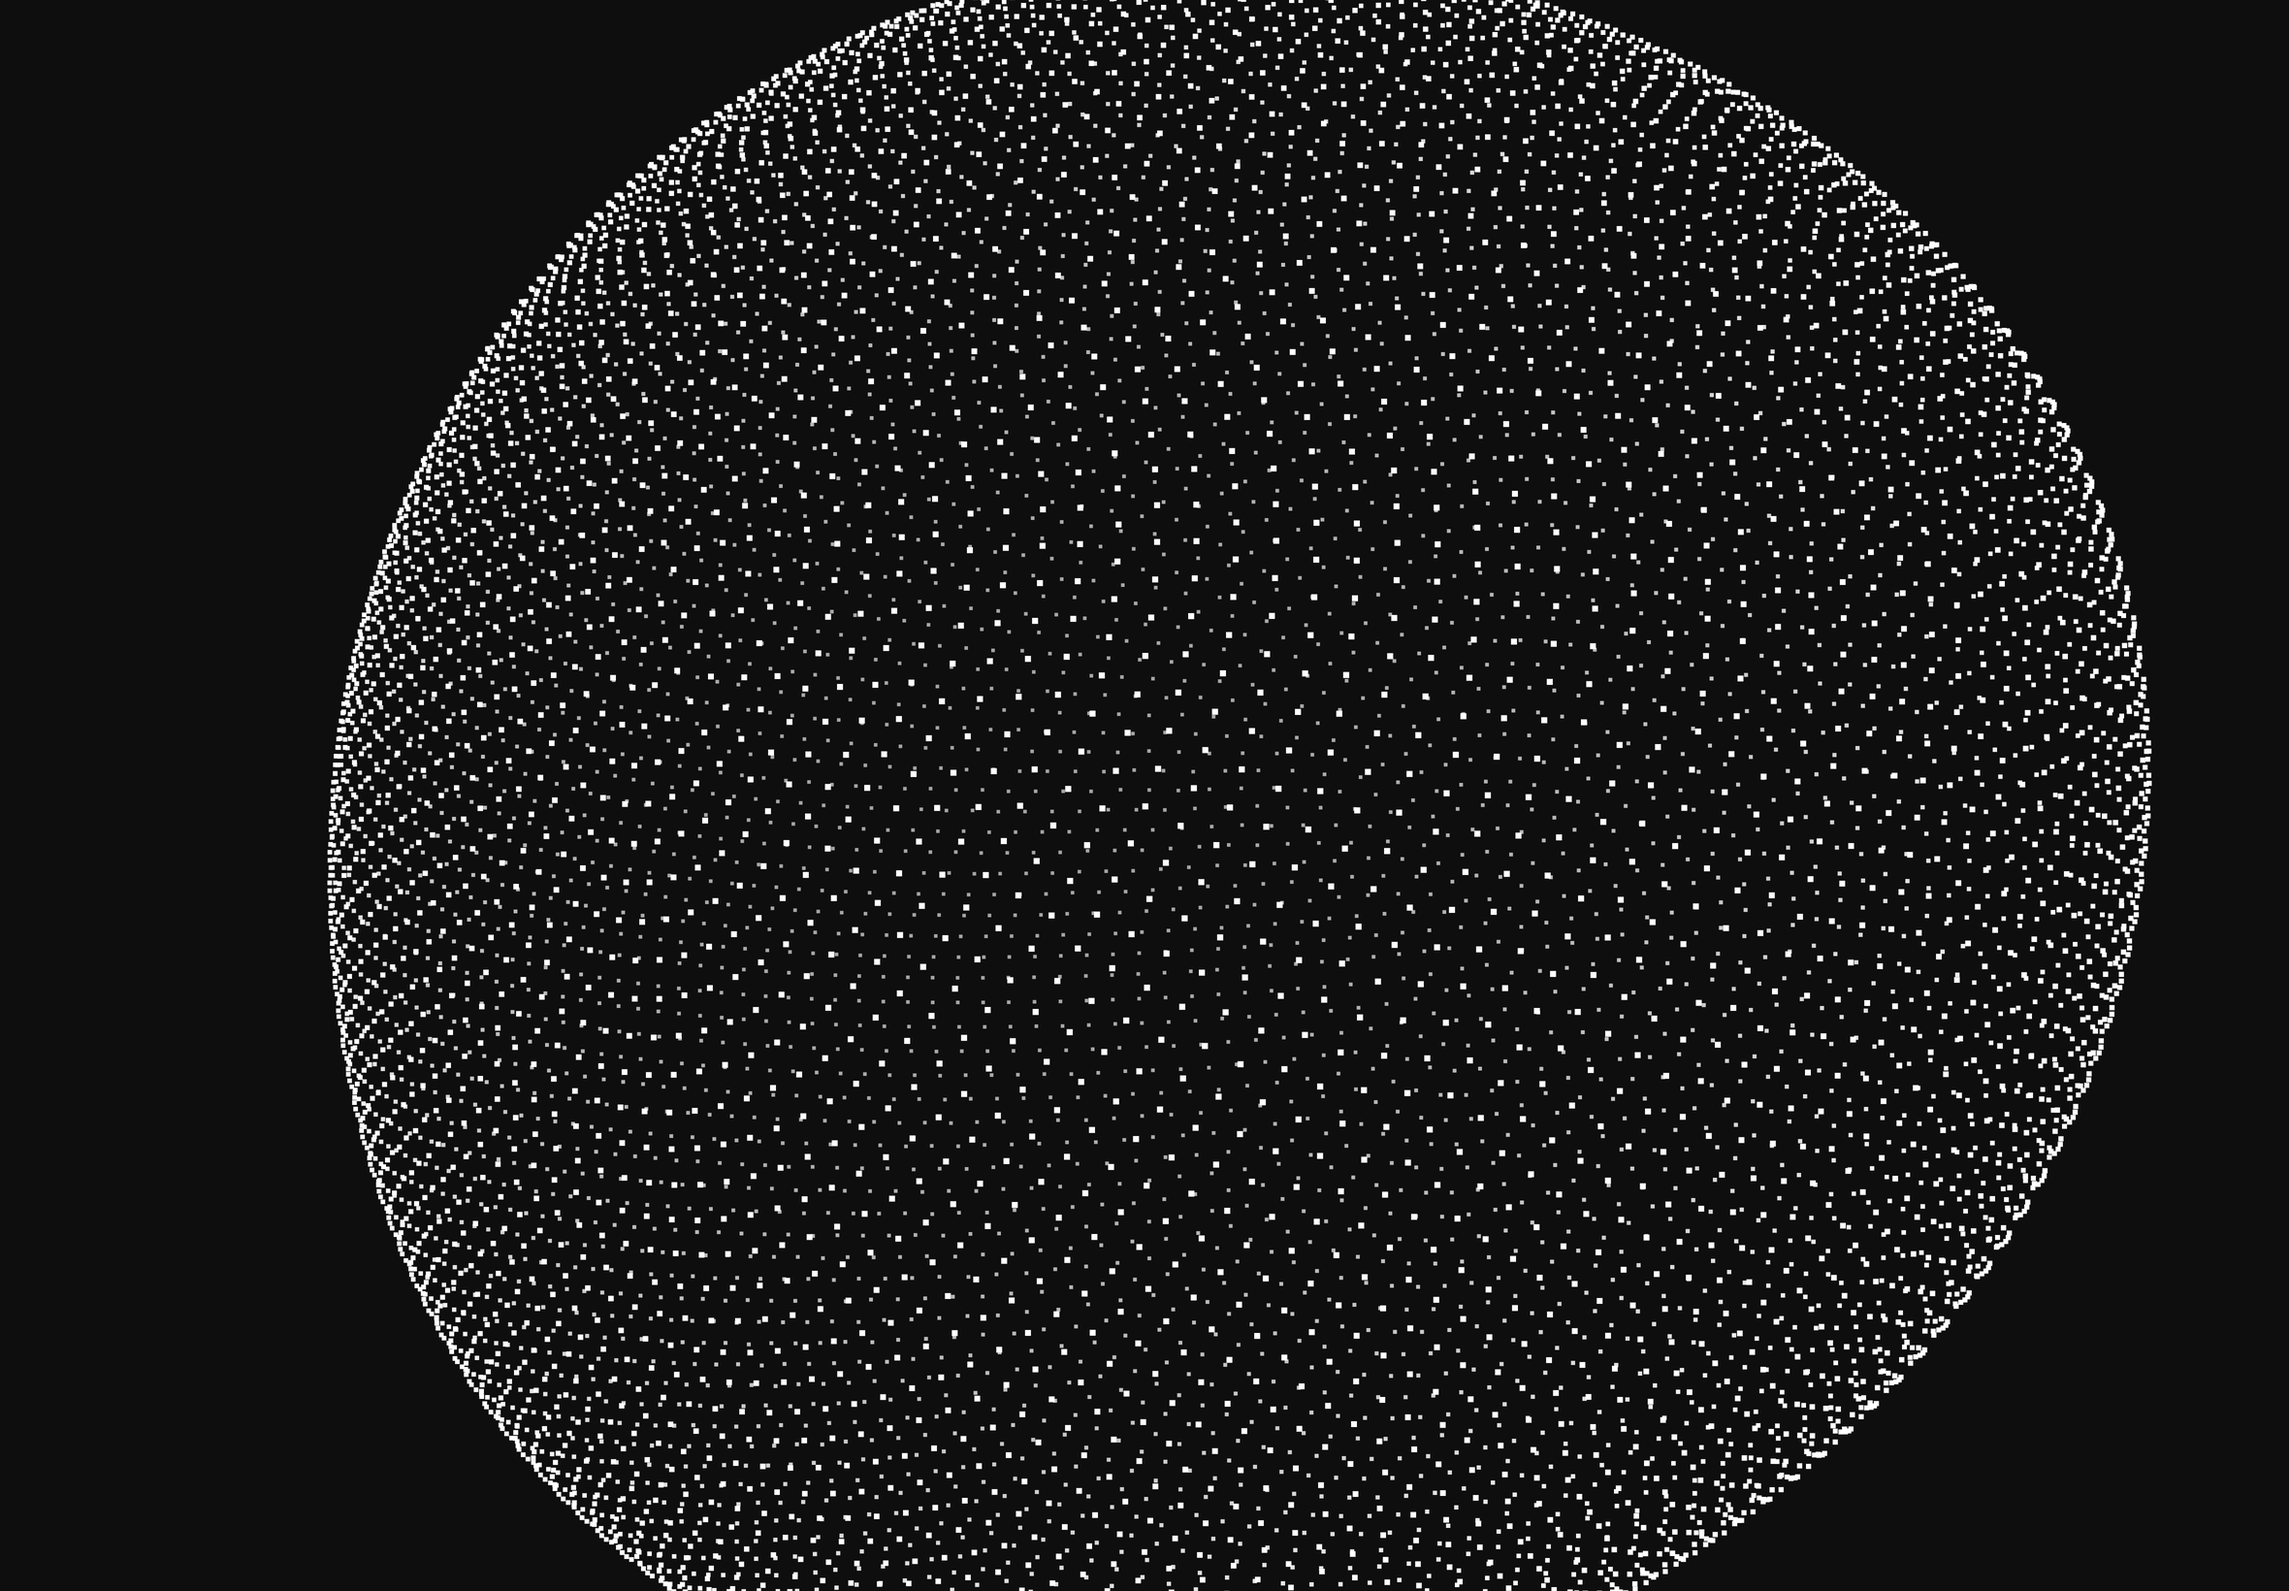
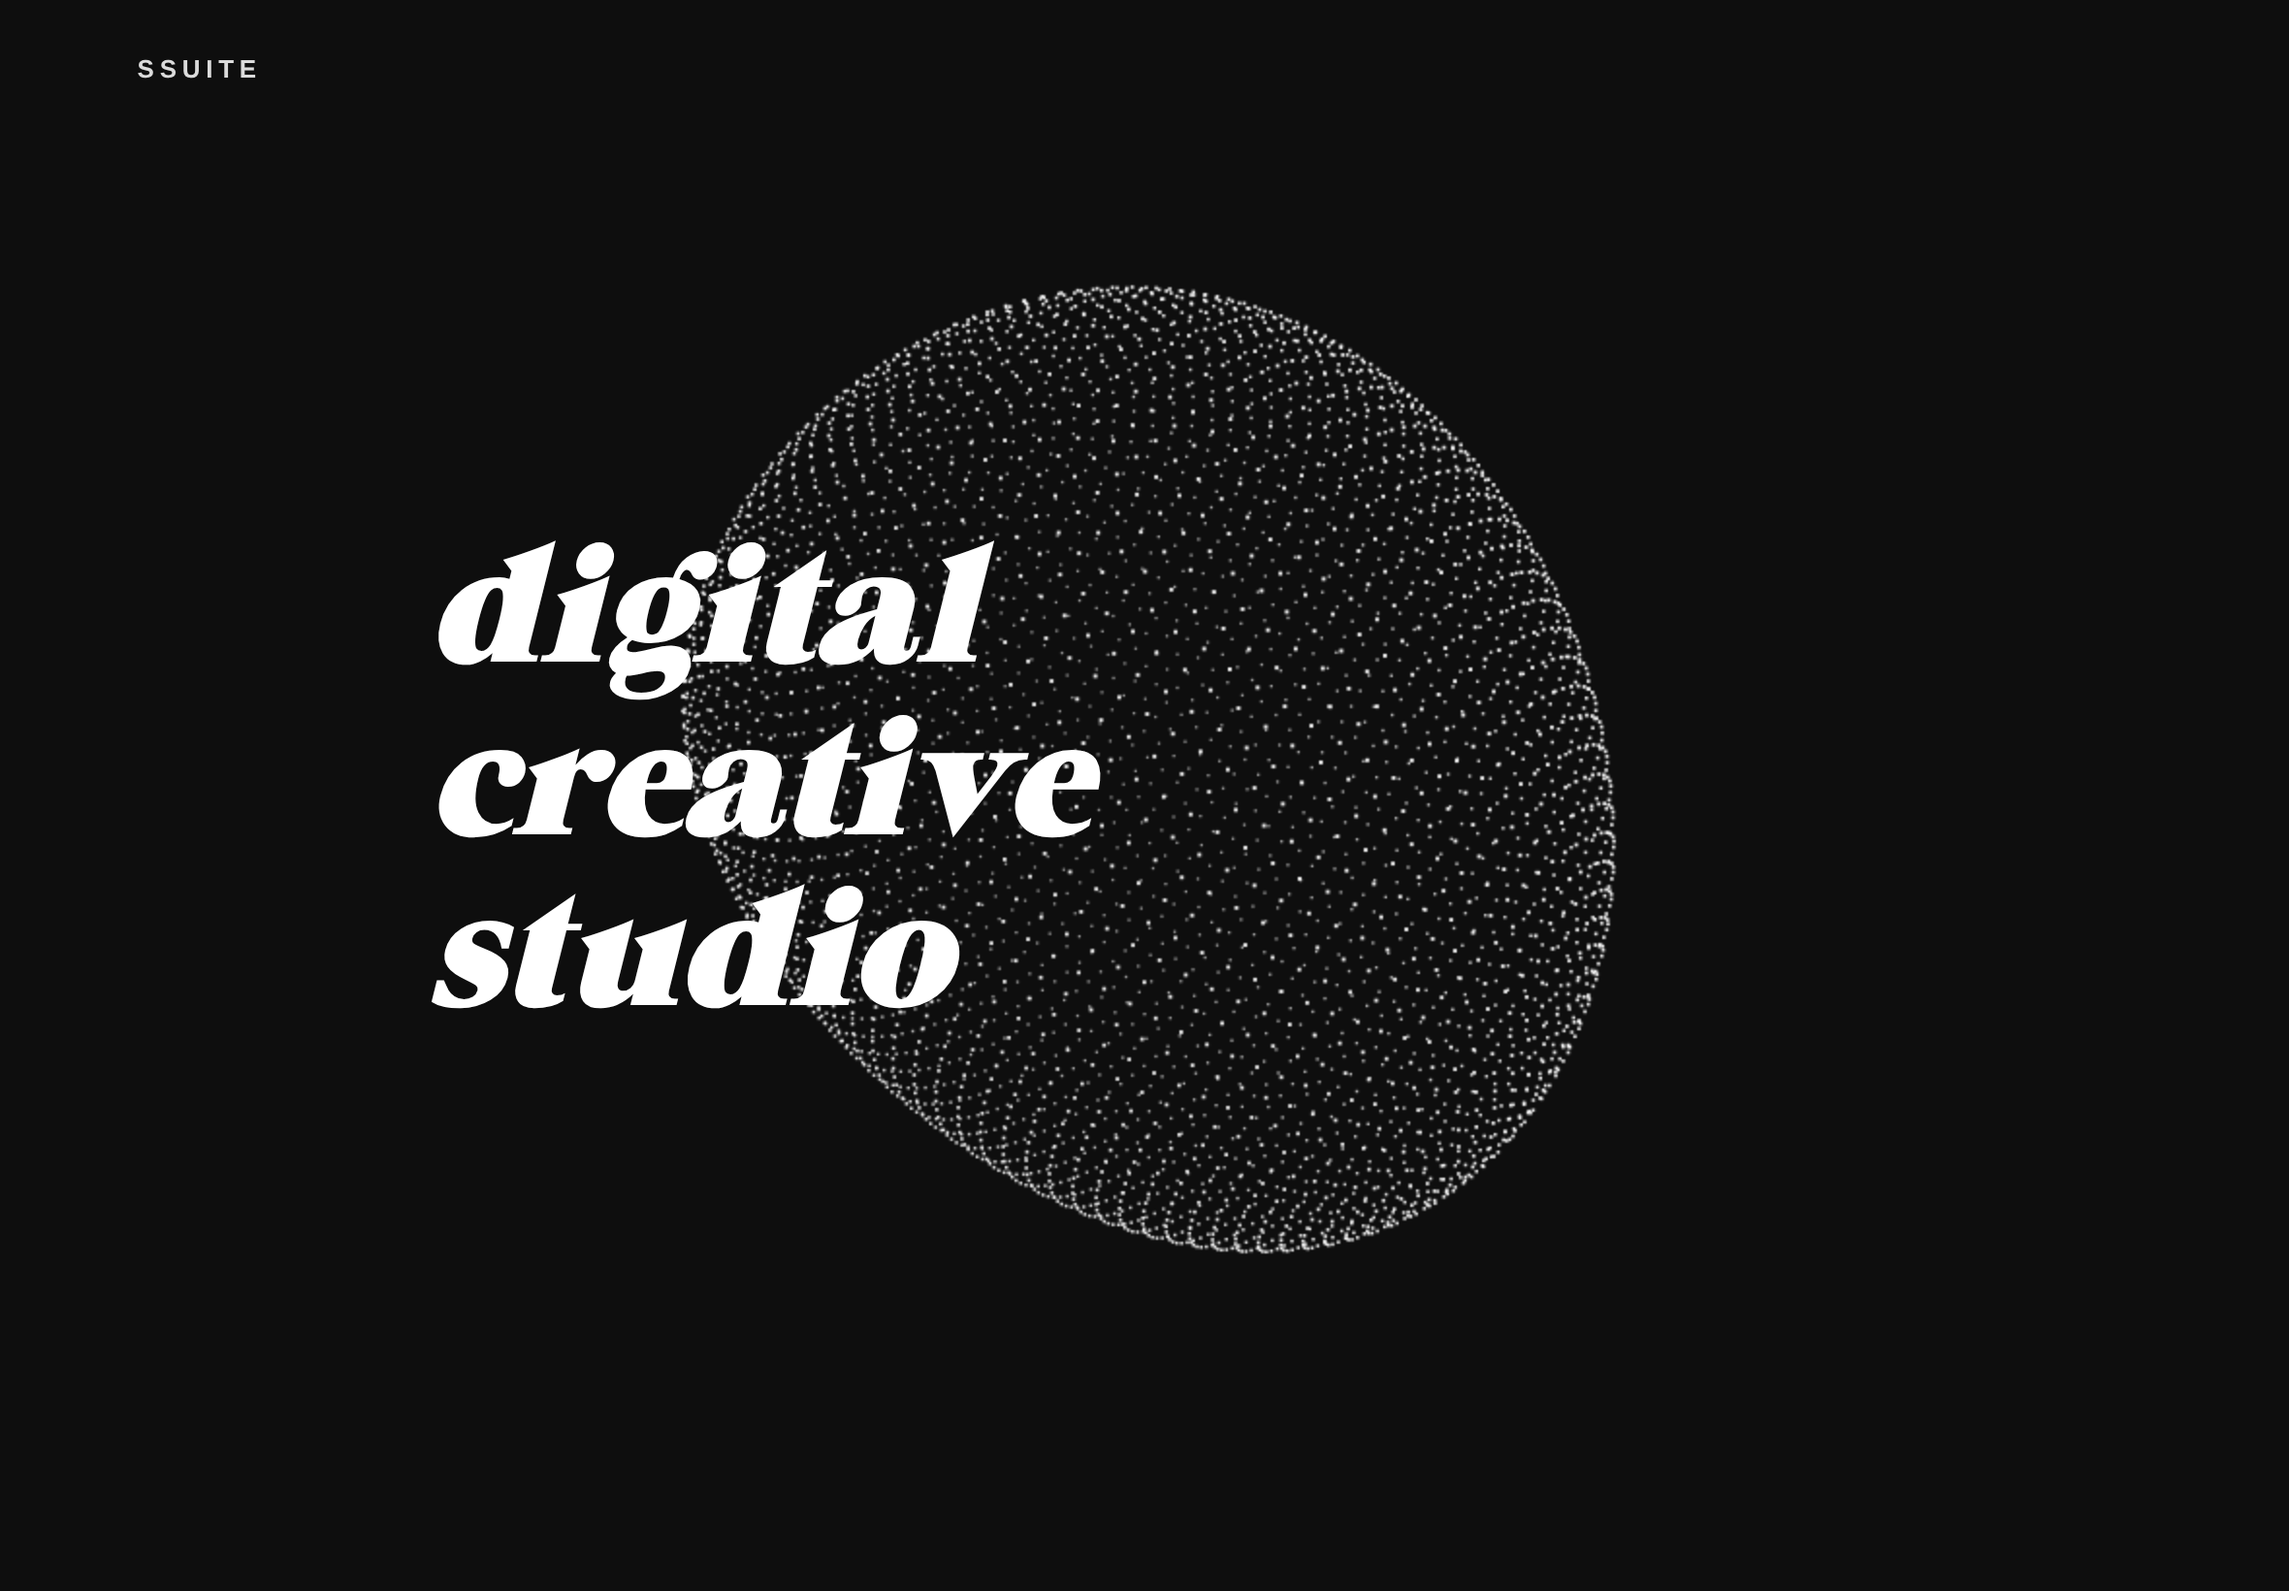
Re-shoot the wallpapers from the live /wallpaper/ page
The stills now carry the headline and desktop typesetting, taken as
screenshots of the real page at each iPad resolution so the static and
interactive versions match. The clock is hidden since iPadOS draws its own.

Claude-Session: https://claude.ai/code/session_019hLjR34nbk9WCTSZvWJZ7Y

diff --git a/img/wallpapers/README.md b/img/wallpapers/README.md
@@ -1,10 +1,14 @@
 # SEOsuite iPad wallpapers
 
-Stills of the **homepage hero orb** — the rotating dot sphere ("blob") that
-sits behind the hero on seosuite.studio. `generate.py` re-implements the
-geometry, wave shape and perspective projection of `js/blob-min.js` using
-the `blob_settings` from `js/main.js`, so the sphere is the real thing at
-its resting shape, not a lookalike.
+Stills of the **live wallpaper page** at `/wallpaper/` — the homepage hero
+orb with the "digital creative studio" headline, typeset as the desktop
+homepage sets it. They are screenshots of that real page at iPad
+resolutions, so the still and the interactive version match exactly. The
+clock is hidden in the stills because iPadOS draws its own.
+
+`generate.py` is the standalone alternative: it re-implements the geometry,
+wave shape and projection of `js/blob-min.js` from the `blob_settings` in
+`js/main.js` and renders the bare orb without a browser.
 
 Files are named `seosuite-hero-wallpaper-<device>-<theme>-<orientation>.png`:
 
